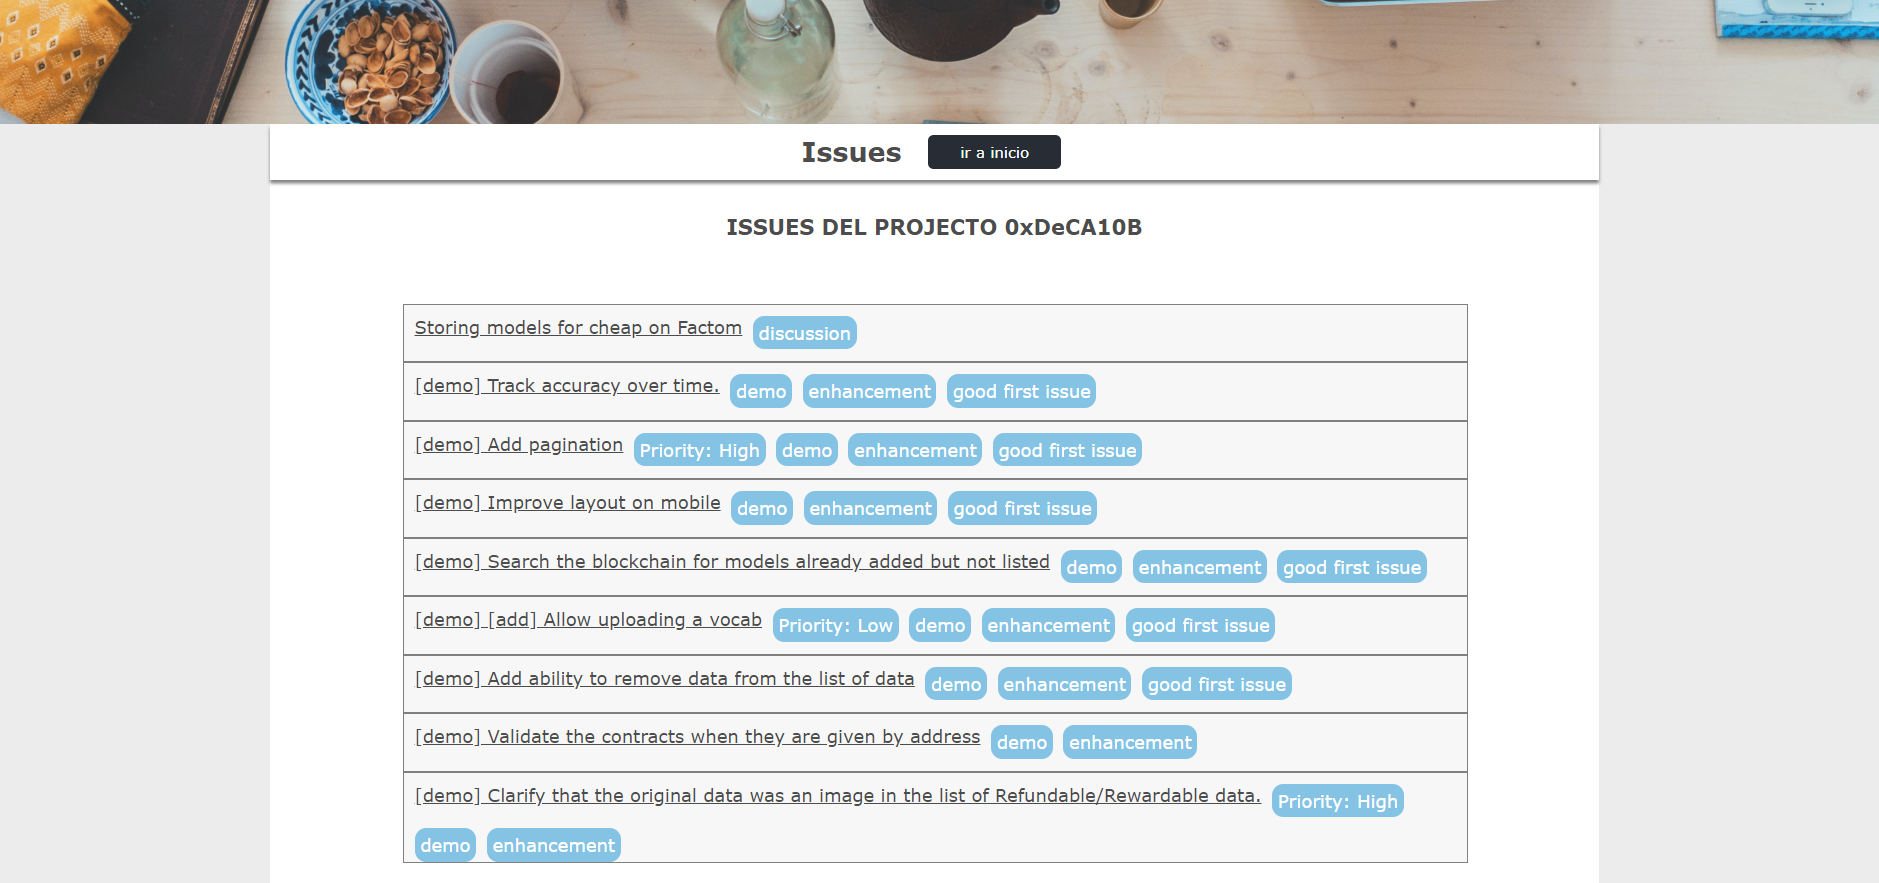
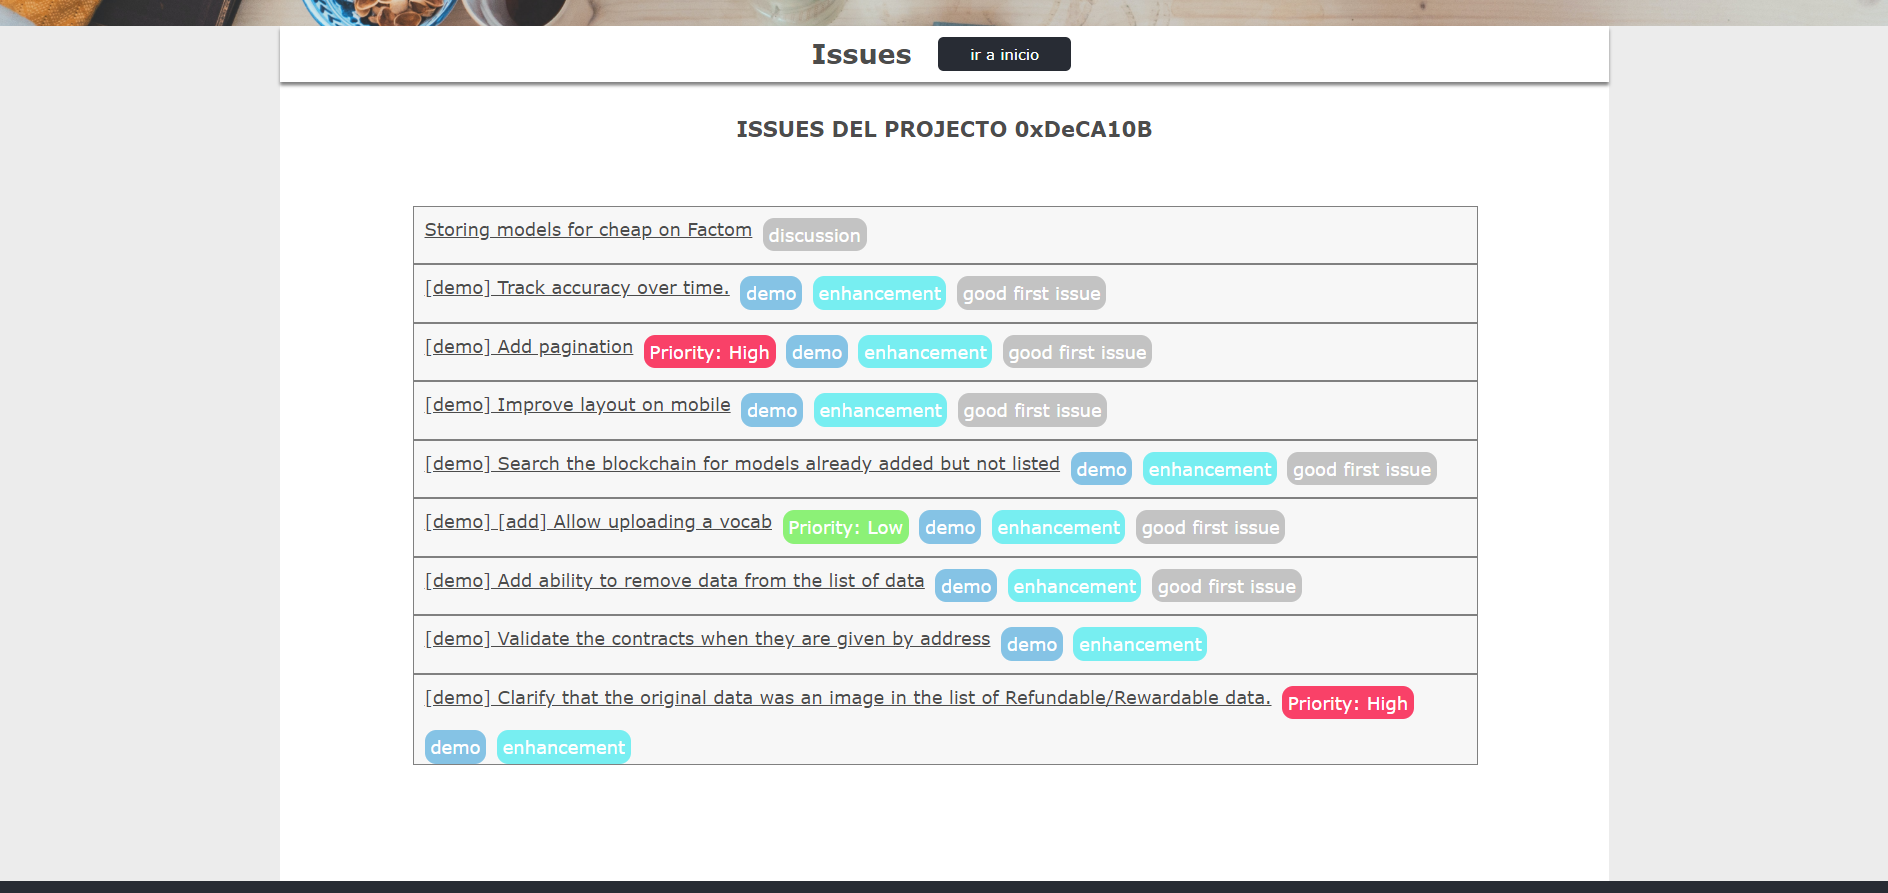
agregado color issues

Changed region(s): [[0.0, 0.0, 1.0, 1.0]]

diff --git a/src/app/pages/issues/issues.component.html b/src/app/pages/issues/issues.component.html
@@ -12,10 +12,9 @@
     <div class="divContenedorIssues" *ngIf="aparecerContenedor">
         <div class="divIssues" *ngFor="let index of arrayIssues">
             <a [href]="index.html_url">{{index.title}}</a>
-            <label class="labelName" *ngFor="let indexDos of index.labels">{{indexDos.name}}</label>
+            <label class="labelName" *ngFor="let indexDos of index.labels" [ngClass]="{'demo':indexDos.name=='demo', 'priorityHigh':indexDos.name=='Priority: High', 'enhancement':indexDos.name=='enhancement','priorityLow':indexDos.name=='Priority: Low' }">{{indexDos.name}}</label>
         </div>
     </div>
 
 </section>
 
-<!-- <label class="labelName" *ngIf="index.labels[0].name">{{index.labels[0].name}}</label> -->

diff --git a/src/app/pages/issues/issues.component.css b/src/app/pages/issues/issues.component.css
@@ -59,11 +59,8 @@
     width: 80%;
     min-height: 50px;
     margin-left: 10%;
-    /* margin-top: 20px; */
     border: 1px solid gray; 
     background: #F7F7F7;
-    /* box-shadow: 0px 0px 10px black; */
-    /* border-radius: 5px; */
     float: left;
 }
 
@@ -78,8 +75,7 @@
 }
 
 .labelName{
-    /* width: 10%; */
-    background: #85C3E5;
+    background: #C3C3C3;
     font: 15px;
     border-radius: 10px;
     padding: 5px;
@@ -87,4 +83,24 @@
     color: white;
     margin-left: 1%;
     float: left;
+}
+
+.demo{
+    background: #85C3E5;
+}
+
+.priorityHigh{
+    background: #F94168;
+}
+
+.priorityLow{
+    background: #8CF177;
+}
+
+.enhancement{
+    background: #77EEF1;
+}
+
+.sinEstilo{
+    background: ;
 }
